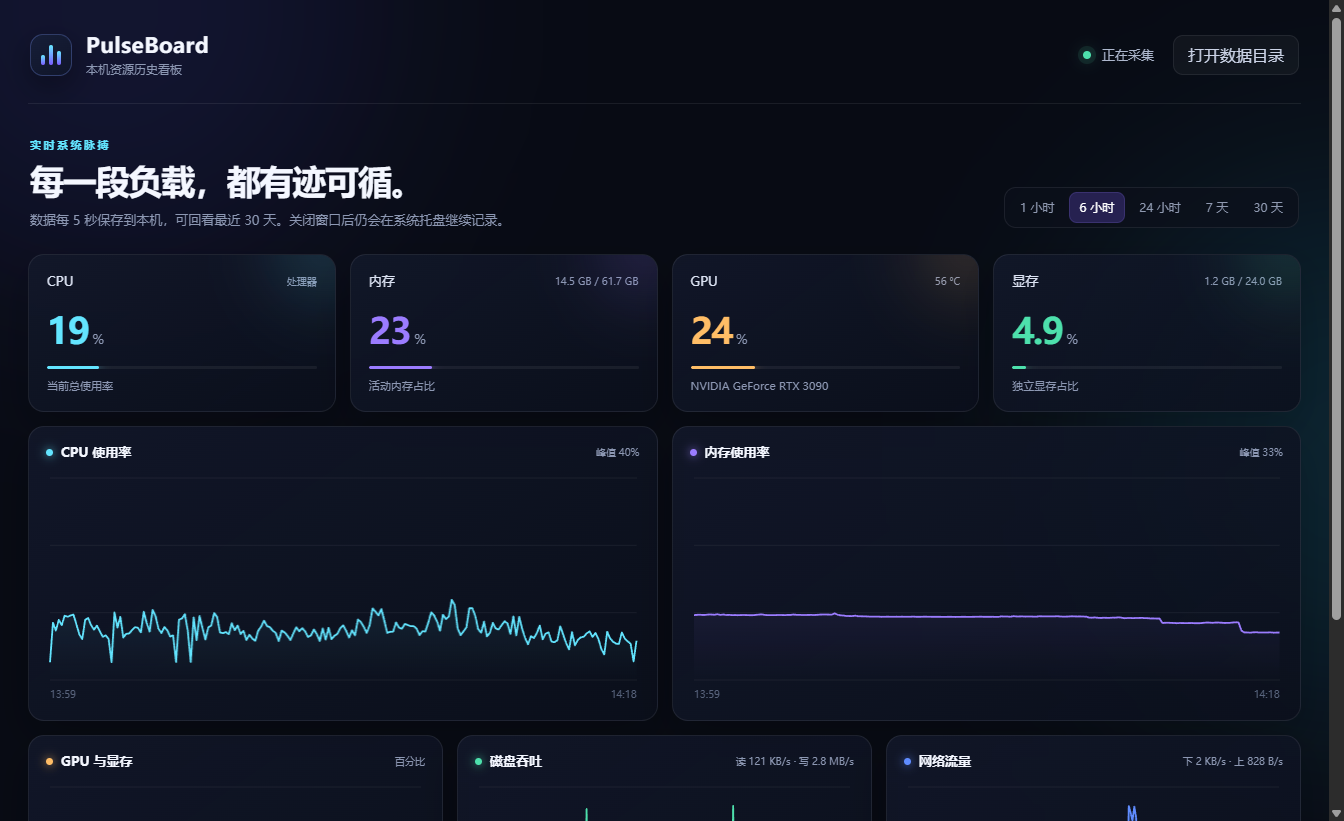
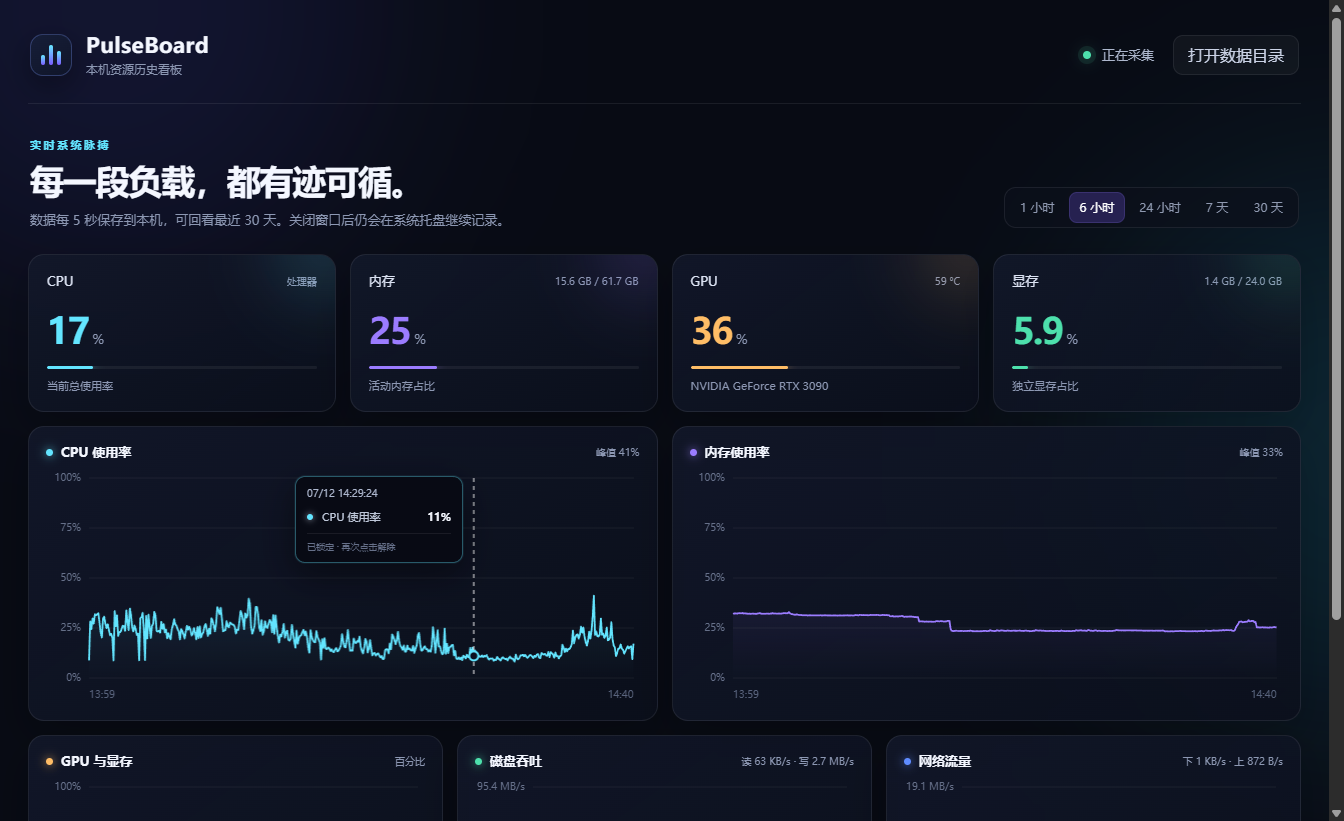
发布交互式图表 v1.1.0 (#2)

diff --git a/src/renderer.js b/src/renderer.js
@@ -1,5 +1,6 @@
 const state = { points: [], range: 21600000, latest: null };
 const colors = { cpu: '#63e5ff', memory: '#9b7cff', gpu: '#ffbd66', vram: '#4de0ac', disk: '#4de0ac', network: '#5f8cff' };
+const interactions = new Map();
 const $ = (id) => document.getElementById(id);
 
 function clamp(value) { return Math.max(0, Math.min(100, Number(value) || 0)); }
@@ -11,6 +12,8 @@ function bytes(value) {
   const index = Math.min(Math.floor(Math.log(amount) / Math.log(1024)), units.length - 1);
   return `${(amount / 1024 ** index).toFixed(index > 1 ? 1 : 0)} ${units[index]}`;
 }
+function rate(value) { return `${bytes(value)}/s`; }
+function percentLabel(value) { return `${(Number(value) || 0).toFixed(value < 10 ? 1 : 0)}%`; }
 
 function updateCards(sample) {
   if (!sample) return;
@@ -28,9 +31,71 @@ function updateCards(sample) {
   $('vramDetail').textContent = sample.gpuMemoryTotal ? `${bytes(sample.gpuMemory)} / ${bytes(sample.gpuMemoryTotal)}` : '暂无数据';
   $('gpuTemp').textContent = sample.gpuTemp ? `${sample.gpuTemp.toFixed(0)} °C` : '-- °C';
   $('gpuName').textContent = sample.gpuName;
-  $('diskNow').textContent = `读 ${bytes(sample.diskRead)}/s · 写 ${bytes(sample.diskWrite)}/s`;
-  $('netNow').textContent = `下 ${bytes(sample.netDown)}/s · 上 ${bytes(sample.netUp)}/s`;
+  $('diskNow').textContent = `读 ${rate(sample.diskRead)} · 写 ${rate(sample.diskWrite)}`;
+  $('netNow').textContent = `下 ${rate(sample.netDown)} · 上 ${rate(sample.netUp)}`;
   $('lastUpdated').textContent = `更新于 ${new Date(sample.t).toLocaleTimeString('zh-CN', { hour12: false })}`;
+}
+
+function getInteraction(canvas) {
+  if (interactions.has(canvas.id)) return interactions.get(canvas.id);
+  const tooltip = document.createElement('div');
+  tooltip.className = 'chart-tooltip';
+  canvas.parentElement.appendChild(tooltip);
+  const interaction = { index: null, locked: false, tooltip, meta: null };
+  interactions.set(canvas.id, interaction);
+
+  const nearestIndex = (event) => {
+    const meta = interaction.meta;
+    if (!meta || meta.count < 1) return null;
+    const rect = canvas.getBoundingClientRect();
+    const x = event.clientX - rect.left;
+    const ratio = Math.max(0, Math.min(1, (x - meta.pad.left) / meta.plotW));
+    return Math.round(ratio * Math.max(0, meta.count - 1));
+  };
+  const redraw = () => {
+    if (interaction.meta) drawChart(canvas, interaction.meta.series, interaction.meta.options);
+  };
+  canvas.addEventListener('pointermove', (event) => {
+    if (interaction.locked) return;
+    interaction.index = nearestIndex(event);
+    redraw();
+  });
+  canvas.addEventListener('pointerleave', () => {
+    if (interaction.locked) return;
+    interaction.index = null;
+    redraw();
+  });
+  canvas.addEventListener('click', (event) => {
+    const index = nearestIndex(event);
+    if (interaction.locked && interaction.index === index) {
+      interaction.locked = false;
+      interaction.index = null;
+    } else {
+      interaction.locked = true;
+      interaction.index = index;
+    }
+    redraw();
+  });
+  return interaction;
+}
+
+function showTooltip(canvas, interaction, index, meta) {
+  if (index === null || !state.points[index]) {
+    interaction.tooltip.classList.remove('visible', 'locked');
+    return;
+  }
+  const point = state.points[index];
+  const x = meta.pad.left + meta.plotW * (meta.count === 1 ? 1 : index / (meta.count - 1));
+  const rows = meta.series.map((item) => {
+    const value = item.values[index] ?? 0;
+    return `<div><i style="background:${item.color}"></i><span>${item.label}</span><strong>${item.formatter(value)}</strong></div>`;
+  }).join('');
+  interaction.tooltip.innerHTML = `<time>${formatExactTime(point.t)}</time>${rows}<small>${interaction.locked ? '已锁定 · 再次点击解除' : '点击可锁定数据点'}</small>`;
+  interaction.tooltip.style.left = `${canvas.offsetLeft + x}px`;
+  interaction.tooltip.style.top = `${canvas.offsetTop + 12}px`;
+  interaction.tooltip.classList.toggle('flip', x > canvas.clientWidth * .66);
+  interaction.tooltip.classList.toggle('locked', interaction.locked);
+  interaction.tooltip.classList.add('visible');
 }
 
 function drawChart(canvas, series, options = {}) {
@@ -41,18 +106,33 @@ function drawChart(canvas, series, options = {}) {
   const ctx = canvas.getContext('2d');
   ctx.scale(dpr, dpr);
   const width = rect.width, height = rect.height;
-  const pad = { left: 4, right: 4, top: 10, bottom: 22 };
+  const pad = { left: options.percent ? 43 : 58, right: 7, top: 10, bottom: 24 };
   const plotW = width - pad.left - pad.right, plotH = height - pad.top - pad.bottom;
-  ctx.clearRect(0, 0, width, height);
-  ctx.strokeStyle = 'rgba(255,255,255,.055)'; ctx.lineWidth = 1;
-  for (let i = 0; i <= 3; i++) { const y = pad.top + plotH * i / 3; ctx.beginPath(); ctx.moveTo(pad.left, y); ctx.lineTo(width - pad.right, y); ctx.stroke(); }
-  if (!series.length || !series[0].values.length) {
-    ctx.fillStyle = '#667089'; ctx.font = '12px Microsoft YaHei UI'; ctx.textAlign = 'center'; ctx.fillText('正在积累历史数据…', width / 2, height / 2); return;
-  }
+  const count = Math.max(0, ...series.map((item) => item.values.length));
   const allValues = series.flatMap((item) => item.values).filter(Number.isFinite);
-  let max = options.max || Math.max(...allValues, 1) * 1.12;
-  if (options.percent) max = 100;
-  const count = Math.max(...series.map((item) => item.values.length));
+  let max = options.percent ? 100 : Math.max(...allValues, 1) * 1.12;
+  if (!options.percent) max = niceMaximum(max);
+  const interaction = getInteraction(canvas);
+  interaction.meta = { canvas, series, options, pad, plotW, plotH, max, count };
+
+  ctx.clearRect(0, 0, width, height);
+  ctx.font = '10px Microsoft YaHei UI';
+  ctx.lineWidth = 1;
+  for (let i = 0; i <= 4; i++) {
+    const value = max * (1 - i / 4);
+    const y = pad.top + plotH * i / 4;
+    ctx.strokeStyle = 'rgba(255,255,255,.055)';
+    ctx.beginPath(); ctx.moveTo(pad.left, y); ctx.lineTo(width - pad.right, y); ctx.stroke();
+    ctx.fillStyle = '#667089'; ctx.textAlign = 'right'; ctx.textBaseline = 'middle';
+    ctx.fillText(options.axisFormatter(value), pad.left - 8, y);
+  }
+  if (!count) {
+    ctx.fillStyle = '#667089'; ctx.textAlign = 'center'; ctx.textBaseline = 'middle';
+    ctx.fillText('正在积累历史数据…', pad.left + plotW / 2, pad.top + plotH / 2);
+    interaction.tooltip.classList.remove('visible');
+    return;
+  }
+
   for (const item of series) {
     const values = item.values;
     if (!values.length) continue;
@@ -74,18 +154,45 @@ function drawChart(canvas, series, options = {}) {
     });
     ctx.strokeStyle = item.color; ctx.lineWidth = 1.8; ctx.lineJoin = 'round'; ctx.stroke();
   }
+
   const first = state.points[0]?.t, last = state.points.at(-1)?.t;
   if (first && last) {
-    ctx.fillStyle = '#59647d'; ctx.font = '10px Microsoft YaHei UI';
+    ctx.fillStyle = '#59647d'; ctx.font = '10px Microsoft YaHei UI'; ctx.textBaseline = 'alphabetic';
     ctx.textAlign = 'left'; ctx.fillText(formatTime(first), pad.left, height - 4);
     ctx.textAlign = 'right'; ctx.fillText(formatTime(last), width - pad.right, height - 4);
   }
+
+  const index = interaction.index;
+  if (index !== null && index >= 0 && index < count) {
+    const x = pad.left + plotW * (count === 1 ? 1 : index / (count - 1));
+    ctx.save();
+    ctx.setLineDash([4, 4]); ctx.strokeStyle = interaction.locked ? 'rgba(255,255,255,.55)' : 'rgba(255,255,255,.3)';
+    ctx.beginPath(); ctx.moveTo(x, pad.top); ctx.lineTo(x, pad.top + plotH); ctx.stroke(); ctx.restore();
+    for (const item of series) {
+      const value = item.values[index] ?? 0;
+      const y = pad.top + plotH * (1 - Math.min(max, Math.max(0, value)) / max);
+      ctx.beginPath(); ctx.arc(x, y, interaction.locked ? 4.5 : 3.5, 0, Math.PI * 2);
+      ctx.fillStyle = '#0c1120'; ctx.fill(); ctx.strokeStyle = item.color; ctx.lineWidth = 2; ctx.stroke();
+    }
+  }
+  showTooltip(canvas, interaction, index, interaction.meta);
+}
+
+function niceMaximum(value) {
+  if (value <= 0) return 1;
+  const power = 10 ** Math.floor(Math.log10(value));
+  const scaled = value / power;
+  const nice = scaled <= 1 ? 1 : scaled <= 2 ? 2 : scaled <= 5 ? 5 : 10;
+  return nice * power;
 }
 
 function formatTime(timestamp) {
   const d = new Date(timestamp);
-  if (state.range > 86400000) return `${d.getMonth() + 1}/${d.getDate()} ${String(d.getHours()).padStart(2,'0')}:00`;
+  if (state.range > 86400000) return `${d.getMonth() + 1}/${d.getDate()} ${String(d.getHours()).padStart(2, '0')}:00`;
   return d.toLocaleTimeString('zh-CN', { hour: '2-digit', minute: '2-digit', hour12: false });
+}
+function formatExactTime(timestamp) {
+  return new Date(timestamp).toLocaleString('zh-CN', { month: '2-digit', day: '2-digit', hour: '2-digit', minute: '2-digit', second: '2-digit', hour12: false });
 }
 
 function renderCharts() {
@@ -94,17 +201,23 @@ function renderCharts() {
   const gpu = p.map(x => Number(x.gpu) || 0), vram = p.map(x => x.gpuMemoryTotal ? x.gpuMemory / x.gpuMemoryTotal * 100 : 0);
   const disk = p.map(x => (Number(x.diskRead) || 0) + (Number(x.diskWrite) || 0));
   const network = p.map(x => (Number(x.netDown) || 0) + (Number(x.netUp) || 0));
-  drawChart($('cpuChart'), [{ values: cpu, color: colors.cpu }], { percent: true });
-  drawChart($('memoryChart'), [{ values: memory, color: colors.memory }], { percent: true });
-  drawChart($('gpuChart'), [{ values: gpu, color: colors.gpu }, { values: vram, color: colors.vram }], { percent: true });
-  drawChart($('diskChart'), [{ values: disk, color: colors.disk }]);
-  drawChart($('networkChart'), [{ values: network, color: colors.network }]);
+  const percentOptions = { percent: true, axisFormatter: (value) => `${value.toFixed(0)}%` };
+  const rateOptions = { percent: false, axisFormatter: (value) => rate(value) };
+  drawChart($('cpuChart'), [{ label: 'CPU 使用率', values: cpu, color: colors.cpu, formatter: percentLabel }], percentOptions);
+  drawChart($('memoryChart'), [{ label: '内存使用率', values: memory, color: colors.memory, formatter: percentLabel }], percentOptions);
+  drawChart($('gpuChart'), [
+    { label: 'GPU 使用率', values: gpu, color: colors.gpu, formatter: percentLabel },
+    { label: '显存使用率', values: vram, color: colors.vram, formatter: percentLabel }
+  ], percentOptions);
+  drawChart($('diskChart'), [{ label: '磁盘吞吐', values: disk, color: colors.disk, formatter: rate }], rateOptions);
+  drawChart($('networkChart'), [{ label: '网络流量', values: network, color: colors.network, formatter: rate }], rateOptions);
   $('cpuPeak').textContent = `峰值 ${Math.max(...cpu, 0).toFixed(0)}%`;
   $('memoryPeak').textContent = `峰值 ${Math.max(...memory, 0).toFixed(0)}%`;
 }
 
 async function loadHistory() {
   state.points = await window.pulseboard.getHistory(state.range);
+  interactions.forEach((interaction) => { interaction.index = null; interaction.locked = false; });
   if (state.points.length) updateCards(state.points.at(-1));
   renderCharts();
 }
@@ -123,6 +236,9 @@ window.pulseboard.onSample((sample) => {
   state.points.push(sample);
   const cutoff = Date.now() - state.range;
   state.points = state.points.filter((point) => point.t >= cutoff);
+  interactions.forEach((interaction) => {
+    if (interaction.locked && interaction.index !== null) interaction.index = Math.min(interaction.index, state.points.length - 1);
+  });
   renderCharts();
 });
 window.pulseboard.onError((message) => {

diff --git a/src/styles.css b/src/styles.css
@@ -50,11 +50,17 @@ button { font: inherit; }
 .mini-track i { display:block; width:0; height:100%; border-radius:5px; background:currentColor; box-shadow:0 0 12px currentColor; transition:width .5s ease; }
 .cyan{color:var(--cyan)}.violet{color:var(--violet)}.amber{color:var(--amber)}.emerald{color:var(--emerald)}
 .chart-grid { display:grid; grid-template-columns:repeat(6,1fr); gap:14px; margin-top:14px; }
-.chart-card { grid-column:span 2; border-radius:16px; padding:17px 17px 13px; height:270px; min-width:0; }
+.chart-card { grid-column:span 2; border-radius:16px; padding:17px 17px 13px; height:270px; min-width:0; position:relative; overflow:hidden; }
 .chart-card.wide { grid-column:span 3; height:295px; }
 .chart-title { display:flex; align-items:center; justify-content:space-between; margin-bottom:8px; }
 .chart-title div { display:flex; align-items:center; gap:8px; }.chart-title h3 { margin:0; font-size:13px; font-weight:600; }.chart-title>span { font-size:10px; color:var(--muted); }
 .legend-dot { width:7px; height:7px; border-radius:50%; box-shadow:0 0 10px currentColor; }.cyan-dot{color:var(--cyan);background:var(--cyan)}.violet-dot{color:var(--violet);background:var(--violet)}.amber-dot{color:var(--amber);background:var(--amber)}.emerald-dot{color:var(--emerald);background:var(--emerald)}.blue-dot{color:var(--blue);background:var(--blue)}
-canvas { width:100%; height:calc(100% - 29px); display:block; }
+canvas { width:100%; height:calc(100% - 29px); display:block; cursor:crosshair; touch-action:none; }
+.chart-tooltip { position:absolute; z-index:5; min-width:168px; padding:10px 11px; border-radius:10px; background:rgba(7,10,19,.94); border:1px solid rgba(255,255,255,.13); box-shadow:0 12px 35px rgba(0,0,0,.42); pointer-events:none; opacity:0; transform:translateX(10px) translateY(-4px); transition:opacity .12s ease; backdrop-filter:blur(12px); }
+.chart-tooltip.visible { opacity:1; }.chart-tooltip.flip { transform:translateX(calc(-100% - 10px)) translateY(-4px); }.chart-tooltip.locked { border-color:rgba(99,229,255,.36); box-shadow:0 12px 35px rgba(0,0,0,.42),0 0 0 1px rgba(99,229,255,.08); }
+.chart-tooltip time { display:block; color:#aeb8cf; font-size:10px; margin-bottom:7px; white-space:nowrap; }
+.chart-tooltip div { display:grid; grid-template-columns:8px 1fr auto; align-items:center; gap:7px; min-height:20px; font-size:11px; color:#bfc8da; }
+.chart-tooltip div i { width:6px; height:6px; border-radius:50%; box-shadow:0 0 7px currentColor; }.chart-tooltip div strong { color:#f4f7ff; font-size:11px; font-weight:600; margin-left:9px; }
+.chart-tooltip small { display:block; color:#667089; font-size:9px; border-top:1px solid rgba(255,255,255,.07); padding-top:7px; margin-top:6px; }
 footer { display:flex; justify-content:space-between; color:#657089; font-size:10px; padding:18px 4px 0; }
 @media(max-width:1100px){.shell{width:calc(100% - 30px)}.cards{gap:10px}.metric-card{padding:15px}.chart-grid{gap:10px}.hero-copy{display:none}}

diff --git a/src/main.js b/src/main.js
@@ -144,6 +144,18 @@ function createWindow() {
   if (process.env.PULSEBOARD_SCREENSHOT) {
     mainWindow.webContents.once('did-finish-load', () => {
       setTimeout(async () => {
+        await mainWindow.webContents.executeJavaScript(`
+          (() => {
+            const canvas = document.getElementById('cpuChart');
+            const rect = canvas.getBoundingClientRect();
+            canvas.dispatchEvent(new MouseEvent('click', {
+              bubbles: true,
+              clientX: rect.left + rect.width * 0.72,
+              clientY: rect.top + rect.height * 0.45
+            }));
+          })()
+        `);
+        await new Promise((resolve) => setTimeout(resolve, 250));
         const image = await mainWindow.webContents.capturePage();
         fs.writeFileSync(process.env.PULSEBOARD_SCREENSHOT, image.toPNG());
       }, 7000);

diff --git a/README.md b/README.md
@@ -22,6 +22,13 @@
 
 ![PulseBoard 中文资源监控看板](docs/images/dashboard.png)
 
+## v1.1.0：曲线现在可以精确读数
+
+- 为所有历史曲线增加带单位的纵坐标刻度。
+- 鼠标悬停即可查看采样时间和对应数值。
+- 点击曲线可锁定十字线与数据提示，再次点击解除。
+- GPU 与显存等多序列曲线会分别显示每条数据的精确值。
+
 ## 为什么做 PulseBoard？
 
 跑代码、训练模型或长时间编译时，实时数字只能告诉你“现在发生了什么”。PulseBoard 会持续保存采样记录，因此任务结束后仍可以回看：什么时候负载升高、显存是否触顶、网络或磁盘何时成为瓶颈。
@@ -34,6 +41,7 @@
 | --- | --- |
 | 📊 实时资源看板 | CPU、内存、GPU、显存、磁盘读写和网络流量每 5 秒刷新 |
 | 🕒 长期历史曲线 | 支持回看最近 1 小时、6 小时、24 小时、7 天和 30 天 |
+| 🎯 交互式读数 | 纵坐标显示单位，悬停预览数据，点击可锁定时间与数值 |
 | 🎮 NVIDIA GPU 监控 | 显示 GPU 使用率、温度、显存用量和显卡型号 |
 | 💾 自动本地保存 | 按天写入轻量 JSONL 文件，超过 30 天自动清理 |
 | 🖥 系统托盘常驻 | 关闭主窗口后继续记录，双击托盘图标可重新打开 |

diff --git a/CHANGELOG.md b/CHANGELOG.md
@@ -1,0 +1,22 @@
+# 更新日志
+
+## 1.1.0 - 2026-07-12
+
+### 新增
+
+- 所有历史曲线增加纵坐标刻度和单位。
+- 鼠标悬停曲线时显示精确采样时间和对应数值。
+- 点击曲线可以锁定十字线与数据提示，再次点击解除锁定。
+- 多序列曲线分别显示每条序列的名称、颜色和数值。
+
+### 优化
+
+- 百分比曲线固定使用 0%–100% 刻度，便于横向比较。
+- 磁盘与网络曲线根据实际峰值自动选择易读量程。
+- 时间提示精确到秒，并在切换时间范围时自动重置选择状态。
+
+## 1.0.0 - 2026-07-12
+
+- 首次公开发布。
+- 支持 CPU、内存、GPU、显存、磁盘和网络监控。
+- 支持保存并回看最近 30 天历史数据。
